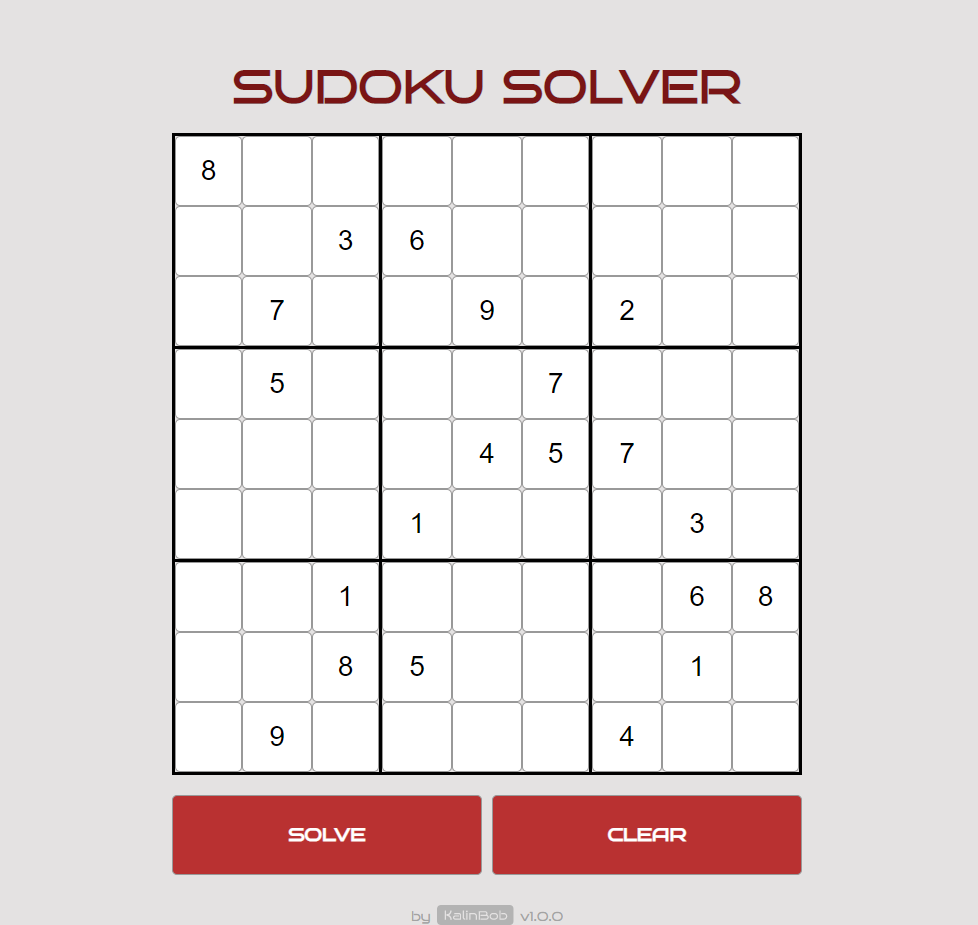
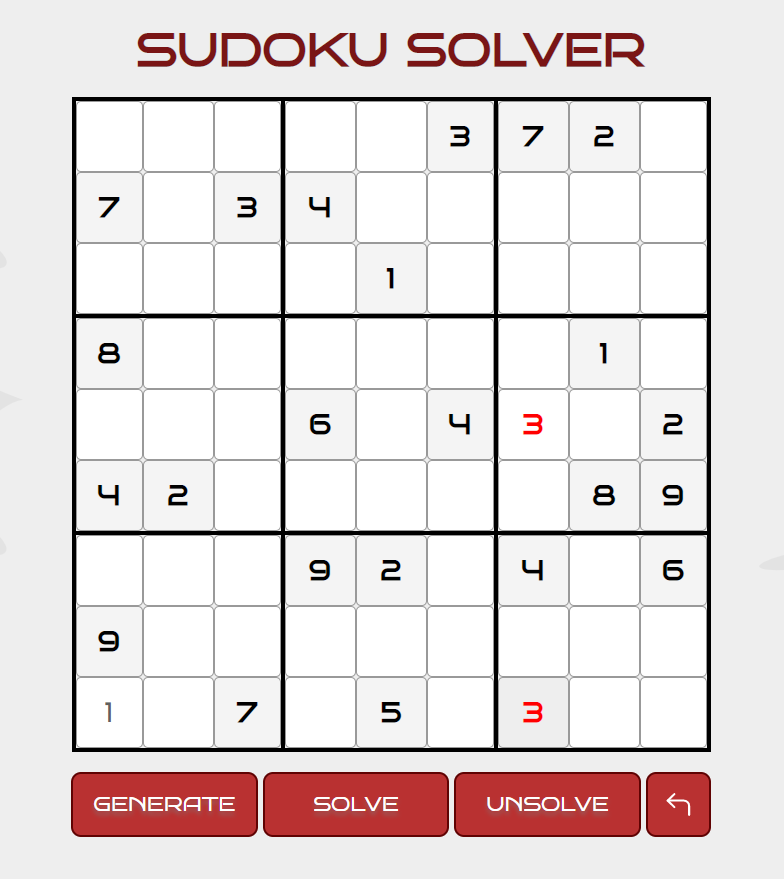
SUD-156 Update readme

Changed region(s): [[0.0918, 0.0307, 0.9184, 1.0]]

diff --git a/README.md b/README.md
@@ -1,10 +1,11 @@
-# Sudoku Solver Frontend
+# Sudoku Solver Frontend by [Kalinbob](http://kalinbob.com)
 
 An HTTP web application serving user interface specifically for [this Sudoku Solver tool](https://github.com/balex89/sudoku-solver) (maintained by [@balex89](https://github.com/balex89)). Solver service API v1 is used.
 
+Try it now at [sudoku.kalinbob.com](http://sudoku.kalinbob.com)! 
 
-Provides a user with a [Sudoku](https://en.wikipedia.org/wiki/Sudoku) grid to fill in, and a button to show the solution in place.
-Works with [basic puzzle rules](https://www.learn-sudoku.com/sudoku-rules.html).
+The app provides a user with a [Sudoku](https://en.wikipedia.org/wiki/Sudoku) grid to fill in (manually or automatically by puzzle generator), tools to solve, unsolve, clear grid or undo recent changes.
+Works with [basic puzzle rules](https://www.learn-sudoku.com/sudoku-rules.html). Highlights cells that violate puzzle rules, if any.
 
 Featuring immediate URL-safe [grid encoding](#sudoku-grid-encoding).
 
@@ -112,7 +113,7 @@ Works well on desktop browsers:
 
 Best in 640 x 910 resolution or higher.
 
-_Mobile devices are poorly supported._
+_Most up-to-date mobile devices should be well-supported. Please report bugs and usability suggestions to [team@kalinbob.com](mailto:team@kalinbob.com)._
 
 ## Sudoku grid encoding
 
@@ -135,4 +136,4 @@ Aka Kalinbob team:
 - [@belnast5](https://github.com/belnast5)
 - [@balex89](https://github.com/balex89) (_Lead maintainer_)
 
-Feel free to contact: [balex89@gmail.com](mailto:balex89@gmail.com).
+Feel free to contact: [team@kalinbob.com](mailto:team@kalinbob.com).
